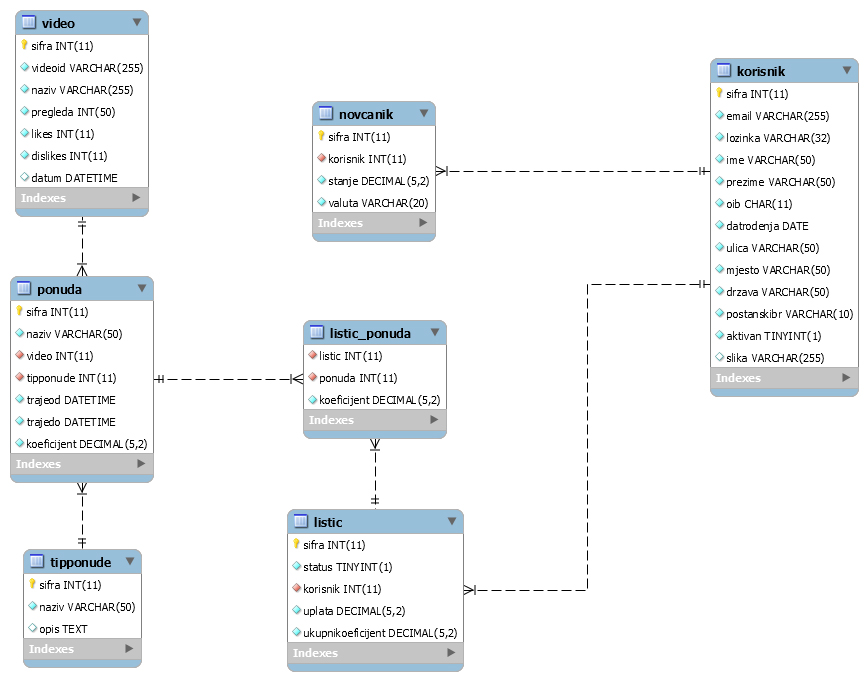
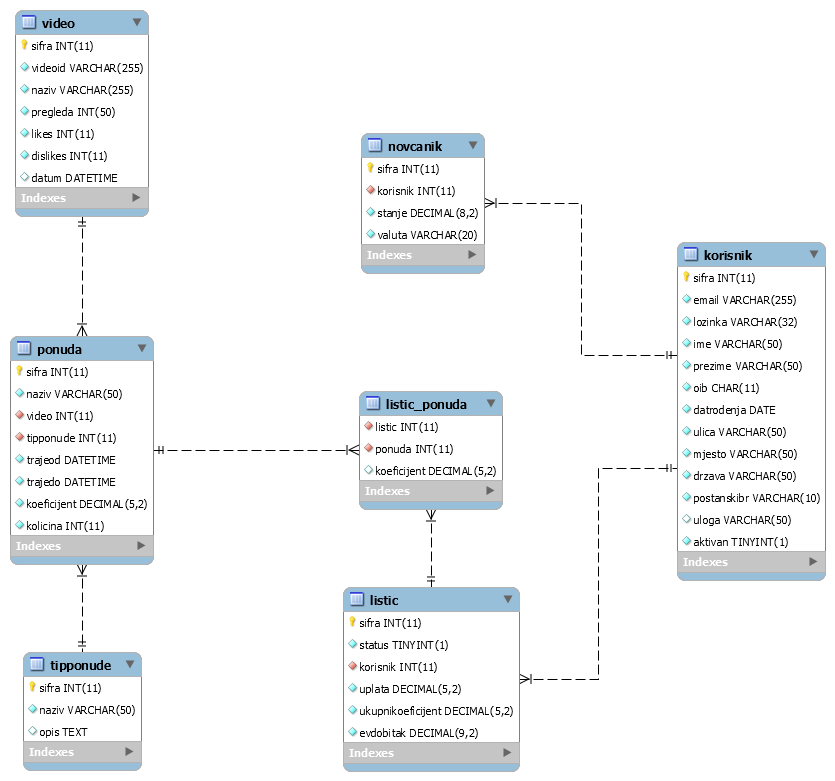
Final

diff --git a/privatno/index.php b/privatno/index.php
@@ -110,7 +110,7 @@ $poruke=array();
 		<?php 	
 		
 		
-				$izraz=$veza->prepare("select a.sifra as listic,c.naziv as vm, c.koeficijent as koef, d.naziv as ime,e.naziv as tip,c.sifra as ponuda,a.ukupnikoeficijent from
+				$izraz=$veza->prepare("select a.sifra as listic,c.naziv as vm,c.kolicina, c.koeficijent as koef, d.naziv as ime,e.naziv as tip,c.sifra as ponuda,a.ukupnikoeficijent from
 				listic a inner join	listic_ponuda b on a.sifra=b.listic
 				inner join ponuda c on b.ponuda=c.sifra
 				inner join video d on c.video=d.sifra
@@ -123,7 +123,7 @@ $poruke=array();
 				foreach ($niz as $stavka):					
 				?>
 				
-				<li><?php echo $stavka->ime; ?> | <?php echo $stavka-> vm; ?>  <?php echo $stavka->tip; ?> | <?php echo $stavka-> koef; ?> | <a href="#" ><span class="obrisi fi-x-circle" id="p_<?php echo $stavka->ponuda; ?>"></span></a></li>
+				<li><?php echo $stavka->ime; ?> | <?php echo $stavka-> vm; ?>  <?php echo $stavka->tip; ?> od <?php echo $stavka->kolicina; ?> | <?php echo $stavka-> koef; ?> | <a href="#" ><span class="obrisi fi-x-circle" id="p_<?php echo $stavka->ponuda; ?>"></span></a></li>
 				<?php
 				endforeach;
 	 			?>
@@ -193,7 +193,7 @@ $poruke=array();
 				$.ajax({
 				type: "POST",
 				url: "../predlozak/dodajnalistic.php",
-				data: "id=" + id + "&koef=" + koef + "&vid=" + vid,
+				data: "tip=" + tip + "&koef=" + koef + "&vid=" + vid + "&id=" + id,
 				success: function(vratioServer){
 					if(vratioServer==="OK"){
 						$("#ponude").append("<li>" + $("#t_" + vid).html() + " | " + $("#n_" + id).html() + " | " + $("#st_" + id).text() + " | " + "<a href=\"#\" ><span class=\"obrisi fi-x-circle\" id=\"p_" + id + "\"></span></a></li>");

diff --git a/predlozak/potvrdiuplatu.php b/predlozak/potvrdiuplatu.php
@@ -8,21 +8,30 @@ if (!isset($_SESSION[$sid . "autoriziran"]) || $_SESSION[$sid . "autoriziran"]->
 
 	if (isset($_POST["potvrdi"])){
 		unset($_POST["potvrdi"]);
-		$izraz=$veza->prepare("update listic set status=1, uplata=:uplata, ukupnikoeficijent=:ukkoef, evdobitak=:evdobitak where sifra=:listic");
-		$izraz->execute(array("evdobitak"=>$_POST["evdobitak"], "ukkoef" => $_POST["ukkoef"],"uplata" => $_POST["uplata"], "listic" => $_POST["listic"]));
-		
 		$izraz=$veza->prepare("select stanje from novcanik where korisnik=:korisnik");
 		$izraz->execute(array("korisnik" => $_SESSION[$sid . "autoriziran"]->sifra));
 		$stanje=$izraz->fetchColumn();
 		
 		$novostanje = $stanje - $_POST["uplata"];
+		if($novostanje < 0){
+			echo "<script>
+			alert('Nemate dovoljno jaakuu novcica');
+			window.location.href='../index.php';
+			</script>"; 
+		}else{
 		
 		$izraz=$veza->prepare("update novcanik set stanje=:novostanje where korisnik=:korisnik");
 		$izraz->execute(array("korisnik" => $_SESSION[$sid . "autoriziran"]->sifra, "novostanje"=>$novostanje));
-	
-
+		
+		$izraz=$veza->prepare("update listic set status=1, uplata=:uplata, ukupnikoeficijent=:ukkoef, evdobitak=:evdobitak where sifra=:listic");
+		$izraz->execute(array("evdobitak"=>$_POST["evdobitak"], "ukkoef" => $_POST["ukkoef"],"uplata" => $_POST["uplata"], "listic" => $_POST["listic"]));
 		header("location: ../index.php");
-		}
+		}	
+	}
+
+		
+		
+		
 	
 ?>
 

diff --git a/predlozak/dodajnalistic.php b/predlozak/dodajnalistic.php
@@ -6,7 +6,7 @@ if(!isset($_SESSION[$sid . "autoriziran"]) || $_SESSION[$sid . "autoriziran"]===
 }
 
 
-if (!isset($_POST["id"]) && !isset($_POST["koef"]) && !isset($_POST["vid"])){ 
+if (!isset($_POST["tip"]) && !isset($_POST["koef"]) && !isset($_POST["vid"]) && !isset($_POST["id"])){ 
 	header("location: ../logout.php");
 	exit;
 }
@@ -32,9 +32,11 @@ if ($provjeraponude>0){
 	echo "Ta ponuda je već na listiću!";
 	exit;
 }
+
+
 	$izraz = $veza -> prepare("select count(c.tipponude) from listic a inner join listic_ponuda b on a.sifra=b.listic inner join ponuda c on c.sifra=b.ponuda 
-								where a.sifra=:listic and video=:video ");
-	$izraz->execute(array("listic" => $listic->sifra,"video"=>$_POST["vid"]));
+								where c.tipponude=:tip and video=:video and b.listic=:listic ");
+	$izraz->execute(array("tip" => $_POST["tip"],"video"=>$_POST["vid"],"listic"=>$listic->sifra));
 	$provjeratipa=$izraz->fetchColumn();
 if ($provjeratipa>0){
 	echo "Već je odigran taj tip ponude!";

diff --git a/predlozak/odigranilistici.php b/predlozak/odigranilistici.php
@@ -22,7 +22,7 @@
 							
 				foreach ($niz as $stavka1): 	?>
 				
-					<li><?php echo $stavka1->ime; ?>, <?php echo $stavka1->tip; ?>, <?php echo $stavka1->vm; ?>, <?php echo $stavka1->koef; ?></li>
+					<li><?php echo $stavka1->ime; ?> | <?php echo $stavka1-> vm; ?>  <?php echo $stavka1->tip; ?> od <?php echo $stavka1->kolicina; ?> | <?php echo $stavka1-> koef; ?> </li>
 				
 				<?php
 				endforeach;
